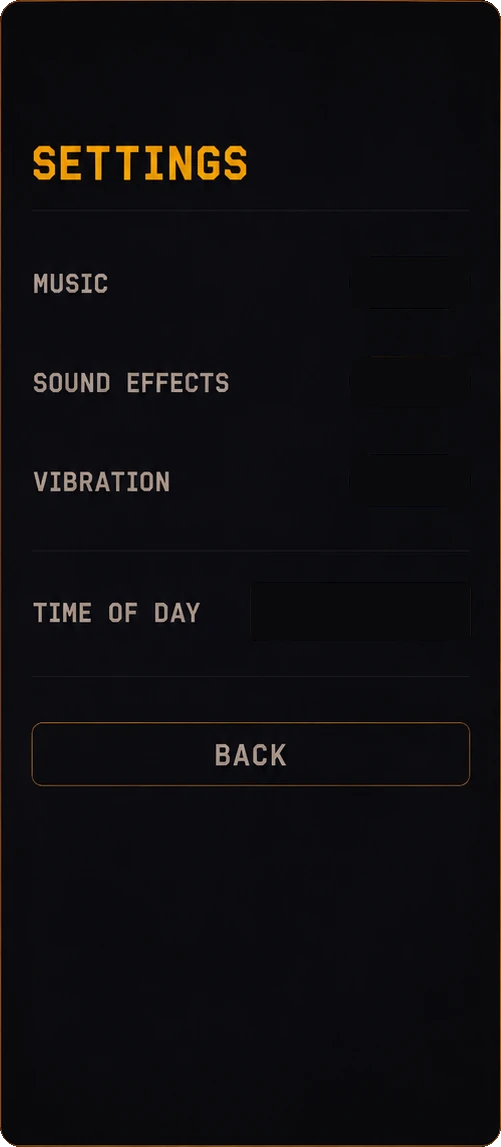
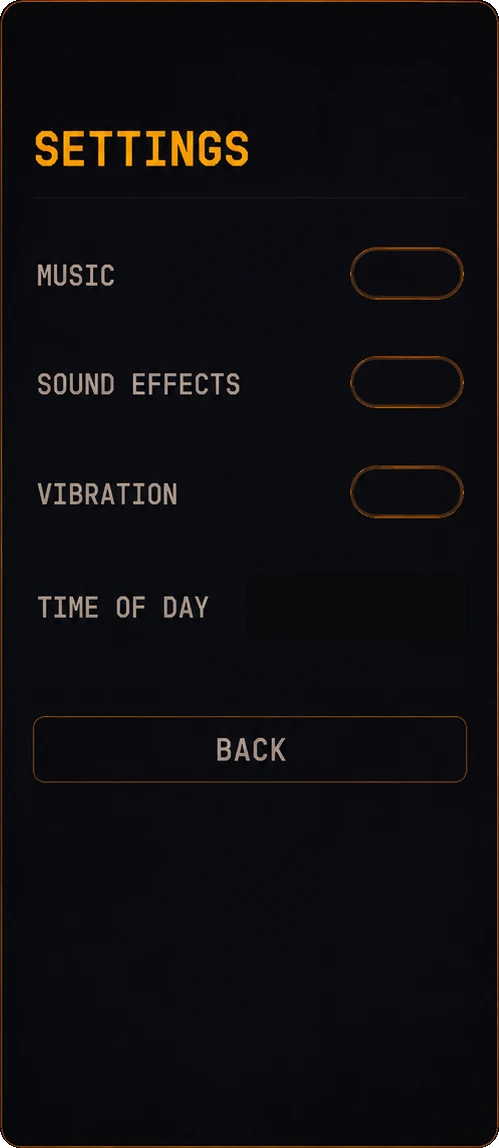
SETTINGS is his painting too, switches and all

diff --git a/src/ui/panel.js b/src/ui/panel.js
@@ -36,6 +36,16 @@ import leaderboardCard from '../assets/backgrounds/leaderboard-card.webp';
 // the Pages subpath.
 import cabinetPlate from '../assets/ui/cabinet.webp';
 import panelOptionsPlate from '../assets/ui/panel-options.webp';
+import panelSettingsPlate from '../assets/ui/panel-settings.webp';
+import pillOn from '../assets/ui/pill-on.webp';
+import pillOff from '../assets/ui/pill-off.webp';
+import todAtl from '../assets/ui/tod-atl.webp';
+import todDay from '../assets/ui/tod-day.webp';
+import todNight from '../assets/ui/tod-night.webp';
+import todLocal from '../assets/ui/tod-local.webp';
+
+// His four TIME OF DAY boxes, keyed by the <select> value they belong to.
+const TOD_PLATE = { atl: todAtl, day: todDay, night: todNight, local: todLocal };
 // HOW TO PLAY, in real frames from the running game — see
 // tools/shoot_howto.mjs. Imported rather than written into index.html for the
 // same reason the card above is: the bundler content-hashes these, and a
@@ -130,6 +140,9 @@ export function createPanel({ onClose, onTimeOfDayChange, onSoundChange,
   if (panelCard) {
     panelCard.style.setProperty('--cabinet-plate', `url(${cabinetPlate})`);
     panelCard.style.setProperty('--panel-options', `url(${panelOptionsPlate})`);
+    panelCard.style.setProperty('--panel-settings', `url(${panelSettingsPlate})`);
+    panelCard.style.setProperty('--pill-on', `url(${pillOn})`);
+    panelCard.style.setProperty('--pill-off', `url(${pillOff})`);
   }
   const views = { menu: $('pvMenu'), board: $('pvBoard'), how: $('pvHow'),
     form: $('pvForm'), settings: $('pvSettings') };
@@ -172,9 +185,10 @@ export function createPanel({ onClose, onTimeOfDayChange, onSoundChange,
     // the plain panel too: a four-page swipe pager and a three-field form
     // inside a cabinet opening either scroll within a scroller or shrink the
     // pictures to nothing.
-    const inCabinet = view === 'menu';
+    const inCabinet = view === 'menu' || view === 'settings';
     $('panelCard').classList.toggle('cabinet', inCabinet);
     $('panelCard').classList.toggle('cabinet-menu', view === 'menu');
+    $('panelCard').classList.toggle('cabinet-settings', view === 'settings');
     // The cabinet is full-bleed, so the SCROLLER has to stop padding and
     // start clipping. On the element rather than the card, because it is the
     // container's own padding and overflow that leave the gap.
@@ -452,6 +466,18 @@ export function createPanel({ onClose, onTimeOfDayChange, onSoundChange,
         + 'right now. Night streets after 7pm Eastern, wherever you are.';
     }
     $('todNote').textContent = note;
+    paintTod(tod);
+  }
+
+  // Swap the <select>'s background to HIS box for the chosen value. Set on
+  // the card rather than the select so it lives with the other plate vars,
+  // and so a value with no artwork simply shows nothing rather than the
+  // previous value's words.
+  function paintTod(v) {
+    const card = $('panelCard');
+    if (!card) return;
+    const url = TOD_PLATE[v];
+    card.style.setProperty('--tod-value', url ? `url(${url})` : 'none');
   }
 
   // ── wiring ────────────────────────────────────────────────────────────
@@ -561,6 +587,9 @@ export function createPanel({ onClose, onTimeOfDayChange, onSoundChange,
     if (e.target.checked) haptics?.tap();
   });
   $('sTod').addEventListener('change', (e) => {
+    // Repaint first, so the box reads as the new value while the plates for
+    // the other half of the day are still decoding.
+    paintTod(e.target.value);
     try { localStorage.setItem('wh_tod', e.target.value); } catch (_e) {}
     // The handler returns FALSE only mid-run, where switching the world under
     // a live run would be worse than waiting. Otherwise it returns a promise

diff --git a/index.html b/index.html
@@ -428,6 +428,68 @@
       background-image: var(--panel-options);
       aspect-ratio: 546 / 1002;
     }
+    #panelCard.cabinet-settings #panelScreen {
+      background-image: var(--panel-settings);
+      aspect-ratio: 499 / 1148;
+    }
+    /* ── SETTINGS: HIS PIECES IN HIS SOCKETS ───────────────────────────
+       Every rect is a fraction of panel-settings, printed by
+       tools/cut_cabinet.py off his own empty render. The three switches keep
+       the outlines HE drew in that render — the ON/OFF sprites are resized to
+       exactly the socket, so his outline and the sprite's coincide. The TIME
+       OF DAY socket is blanked in the plate instead, because his value boxes
+       are drawn at aspect 5.3 against a socket of 3.5 and stretching them to
+       fit would halve the lettering; the border you see there is the one he
+       drew on the box. */
+    #panelCard.cabinet #pvSettings:not([hidden]) { display: contents; }
+    #panelCard.cabinet #pvSettings .note,
+    #panelCard.cabinet #pvSettings label.row > span { display: none; }
+    /* ⚠ THE SWITCHES ARE STILL REAL CHECKBOXES. Only their paint changes —
+       hiding the input and drawing on the label would cost the tap target,
+       the focus ring and the screen-reader role, and this is a control a
+       player has to be able to find with a thumb in a dark room. */
+    #panelCard.cabinet #pvSettings label.row {
+      position: absolute; margin: 0; display: block;
+    }
+    #panelCard.cabinet #pvSettings label.row input[type=checkbox] {
+      appearance: none; -webkit-appearance: none;
+      display: block; width: 100%; height: 100%; margin: 0;
+      background: var(--pill-off) center / 100% 100% no-repeat;
+      border: 0; cursor: pointer;
+      -webkit-tap-highlight-color: transparent;
+    }
+    #panelCard.cabinet #pvSettings label.row input[type=checkbox]:checked {
+      background-image: var(--pill-on);
+    }
+    #panelCard.cabinet #pvSettings label.row input[type=checkbox]:disabled {
+      opacity: 0.4; cursor: default;
+    }
+    #panelCard.cabinet #pvSettings label.row:has(#sSound) {
+      left: 70.14%; top: 21.52%; width: 22.85%; height: 4.62%;
+    }
+    #panelCard.cabinet #pvSettings label.row:has(#sSfx) {
+      left: 70.14%; top: 31.01%; width: 22.85%; height: 4.62%;
+    }
+    #panelCard.cabinet #pvSettings label.row:has(#sHaptics) {
+      left: 70.14%; top: 40.51%; width: 22.85%; height: 4.70%;
+    }
+    /* The select sits over the blanked socket, showing his value box as its
+       own background. `color: transparent` keeps the option text out of the
+       way — the words are in the picture — while the native <select> keeps
+       the OS picker, the keyboard access and the accessible name. */
+    #panelCard.cabinet #pvSettings label.row:has(#sTod) {
+      left: 49.70%; top: 51.13%; width: 43.89%; height: 3.57%;
+    }
+    #panelCard.cabinet #sTod {
+      width: 100%; height: 100%; margin: 0; padding: 0;
+      background: var(--tod-value) center / 100% 100% no-repeat;
+      border: 0; border-radius: 0; color: transparent; font-size: 0;
+      appearance: none; -webkit-appearance: none;
+    }
+    #panelCard.cabinet #sTod option { color: #f2ead8; font-size: 15px; }
+    #panelCard.cabinet #btnBack {
+      left: 6.61%; top: 62.37%; width: 87.17%; height: 5.84%;
+    }
     /* The heading is PAINTED into the plate, so the DOM one would be a second
        copy of the same word sitting on top of his. */
     #panelCard.cabinet #panelTitle { display: none; }

diff --git a/tools/cut_cabinet.py b/tools/cut_cabinet.py
@@ -66,7 +66,9 @@ Usage:
 """
 import os
 
+import numpy as np
 from PIL import Image, ImageDraw
+from scipy import ndimage
 
 REPO_ROOT = os.path.dirname(os.path.dirname(os.path.abspath(__file__)))
 SRC = os.path.join(REPO_ROOT, 'assets', 'ui-concept')
@@ -97,12 +99,92 @@ RADIUS = 20
 # Image coordinates in settings.png. Blanked out of the settings plate and
 # filled at runtime by the client's own pieces. Sizes here ARE the sizes he
 # was given to draw to, so changing one means re-briefing him.
+# ⚠ MEASURED ON settings-empty.png, WHICH IS ITS OWN PAINTING.
+# The client redrew the panel when he emptied it, so these are NOT the rects
+# of the original settings.png — the pill went 120x51 -> 114x53 and every row
+# moved. Re-measure after any new render rather than trusting these.
+SETTINGS_PANEL = (143, 235, 641, 1382)      # 499 x 1148
 SOCKETS = [
-    ('sound', 493, 493, 612, 543),      # MUSIC          120 x 51
-    ('sfx', 493, 593, 612, 642),        # SOUND EFFECTS  120 x 50
-    ('haptics', 493, 691, 612, 741),    # VIBRATION      120 x 51
-    ('tod', 394, 819, 612, 875),        # TIME OF DAY    219 x 57
+    ('sound', 493, 482, 606, 534),      # MUSIC          114 x 53
+    ('sfx', 493, 591, 606, 643),        # SOUND EFFECTS  114 x 53
+    ('haptics', 493, 700, 606, 753),    # VIBRATION      114 x 54
+    ('tod', 391, 810, 609, 872),        # TIME OF DAY    219 x 63
 ]
+PILL_SIZE = (114, 53)
+
+# ── WHERE EACH STATE PIECE IS CUT FROM ───────────────────────────────────
+# ⚠ EVERY ONE OF THESE IS A SEPARATE ChatGPT RENDER AT ITS OWN SCALE, and
+# they do not register with each other. The all-off panel is 878x1791 with a
+# 509x1155 panel and a 144x55 pill; the empty panel is 852x1846 with a 499x1148
+# panel and a 114x53 socket; the value boxes are drawn 537x101 against a socket
+# of 219x63. Asking for registered variants of one painting is not something
+# the generator can do, so each piece is CROPPED from his art and RESIZED to
+# the socket. Resizing his pixels is not drawing over them.
+# ── RECONCILING THE SCALES ───────────────────────────────────────────────
+# ⚠ NO TWO OF HIS RENDERS SHARE A SCALE, so nothing can be cut from one and
+# dropped into another as-is. Measured:
+#
+#   settings-empty.png     852x1846 canvas, panel 499x1148, pill socket 114x53
+#   settings.png (all on)  852x1846 canvas, panel 501x1147, pill        122x55
+#   settings-all-off.png   878x1791 canvas, panel 509x1155, pill        144x55
+#
+# The all-off panel is not even a uniform scale of the empty one — 499/509 =
+# 0.980 across but 1148/1155 = 0.994 down. Cutting a pill from each and
+# resizing it to the socket by hand (the first pass here) happens to work for
+# a pill, and quietly stops working the moment a piece is not a lozenge.
+#
+# So every source is ALIGNED first: its panel is located, and the whole image
+# is resampled so that panel lands exactly on the reference panel below. After
+# that, one set of coordinates — the reference socket rects — cuts correctly
+# from any of them, and a new render only needs its panel found.
+REFERENCE = 'settings-empty.png'
+# Piece -> (source file, rect in REFERENCE coordinates). The rects ARE the
+# sockets, so an aligned cut needs no resizing at all.
+SRC_PILL_ON = ('settings.png', 'sound')
+SRC_PILL_OFF = ('settings-all-off.png', 'sound')
+# The four values, top to bottom in his sheet, in the order the <select> lists
+# them. All 537x101.
+SRC_TOD = ('settings-tod-values.png', 239, 775, [
+    ('atl', 315, 415), ('day', 580, 680), ('night', 841, 942),
+    ('local', 1104, 1204),
+])
+
+
+def find_panel(im):
+    """Locate the amber-bordered panel in one of his cabinet renders.
+
+    Warm-over-dark rather than luminance: the housing is dark metal and the
+    screen is dark glass, so a brightness threshold returns the whole cabinet.
+    The panel is the largest warm-bordered region on the plate.
+    """
+    a = np.asarray(im.convert('RGB')).astype(int)
+    warm = ((a[..., 0] - a[..., 2]) > 18) & (a[..., 0] > 55)
+    filled = ndimage.binary_fill_holes(
+        ndimage.binary_closing(warm, np.ones((9, 9))))
+    lab, n = ndimage.label(filled)
+    if not n:
+        raise SystemExit('no panel found')
+    sizes = ndimage.sum(filled, lab, range(1, n + 1))
+    sl = ndimage.find_objects(lab)[int(np.argmax(sizes))]
+    return (sl[1].start, sl[0].start, sl[1].stop - 1, sl[0].stop - 1)
+
+
+def align(im, ref_panel, ref_size):
+    """Resample `im` so its panel lands exactly on `ref_panel`.
+
+    Returns a canvas of `ref_size` in which reference coordinates are valid,
+    so one set of socket rects cuts correctly from every render.
+    """
+    px0, py0, px1, py1 = find_panel(im)
+    rx0, ry0, rx1, ry1 = ref_panel
+    sx = (rx1 - rx0 + 1) / (px1 - px0 + 1)
+    sy = (ry1 - ry0 + 1) / (py1 - py0 + 1)
+    out = im.convert('RGBA').resize(
+        (max(1, round(im.width * sx)), max(1, round(im.height * sy))),
+        Image.LANCZOS)
+    canvas = Image.new('RGBA', ref_size, (0, 0, 0, 0))
+    canvas.paste(out, (round(rx0 - px0 * sx), round(ry0 - py0 * sy)))
+    return canvas, (sx, sy)
 
 
 def rounded_alpha(size, radius):
@@ -131,24 +213,91 @@ def main():
     ImageDraw.Draw(house).rectangle([hx0, hy0, hx1, hy1], fill=GLASS)
     report.append(save(house, 'cabinet.webp') + (f'{house.width}x{house.height}',))
 
-    # ── 2. each painted panel, cropped to its own rect ────────────────────
-    for which in ('options', 'settings'):
-        src = Image.open(os.path.join(SRC, f'{which}.png')).convert('RGBA')
-        x0, y0, x1, y1 = PANEL[which]
-        plate = src.crop((x0, y0, x1 + 1, y1 + 1))
+    # ── 2. the OPTIONS panel, cropped whole. It has no state, so every
+    #       pixel of it ships exactly as he painted it. ────────────────────
+    ox0, oy0, ox1, oy1 = PANEL['options']
+    op = Image.open(os.path.join(SRC, 'options.png')).convert('RGBA')
+    op = op.crop((ox0, oy0, ox1 + 1, oy1 + 1))
+    op.putalpha(rounded_alpha(op.size, RADIUS))
+    report.append(save(op, 'panel-options.webp') + (f'{op.width}x{op.height}',))
 
-        if which == 'settings':
-            d = ImageDraw.Draw(plate)
-            for _name, sx0, sy0, sx1, sy1 in SOCKETS:
-                d.rectangle([sx0 - x0, sy0 - y0, sx1 - x0, sy1 - y0],
-                            fill=PANEL_FILL + (255,))
+    # ── 3. the SETTINGS panel, from his EMPTY render ──────────────────────
+    # The three pill sockets keep the empty outlines he drew — the ON/OFF
+    # sprites are resized to exactly those rects, so his outline and theirs
+    # coincide. The TIME OF DAY socket is blanked instead: his value boxes are
+    # 537x101 (aspect 5.3) against a 219x63 socket (aspect 3.5), so they cannot
+    # both be shown. Scaling a box to fill the socket would squash the
+    # lettering by half, so the box goes in at its own aspect and HIS border on
+    # it is the one that shows.
+    sx0, sy0, sx1, sy1 = SETTINGS_PANEL
+    sp = Image.open(os.path.join(SRC, 'settings-empty.png')).convert('RGBA')
+    sp = sp.crop((sx0, sy0, sx1 + 1, sy1 + 1))
+    d = ImageDraw.Draw(sp)
+    for name, ax0, ay0, ax1, ay1 in SOCKETS:
+        if name == 'tod':
+            d.rectangle([ax0 - sx0, ay0 - sy0, ax1 - sx0, ay1 - sy0],
+                        fill=PANEL_FILL + (255,))
+    sp.putalpha(rounded_alpha(sp.size, RADIUS))
+    report.append(save(sp, 'panel-settings.webp') + (f'{sp.width}x{sp.height}',))
 
-        plate.putalpha(rounded_alpha(plate.size, RADIUS))
-        report.append(save(plate, f'panel-{which}.webp')
-                      + (f'{plate.width}x{plate.height}',))
+    # ── 4. the state pieces, cut from ALIGNED sources ─────────────────────
+    ref = Image.open(os.path.join(SRC, REFERENCE))
+    ref_size = ref.size
+    socket = {n: (a, b, c, d) for n, a, b, c, d in SOCKETS}
+    for out_name, (fn, sock) in (('pill-on', SRC_PILL_ON),
+                                 ('pill-off', SRC_PILL_OFF)):
+        raw = Image.open(os.path.join(SRC, fn))
+        fitted, (sx, sy) = align(raw, SETTINGS_PANEL, ref_size)
+        cx0, cy0, cx1, cy1 = socket[sock]
+        # ⚠ ALIGNING THE PANEL IS NOT ENOUGH. He drew the pill at a different
+        # size RELATIVE to the panel in each render — after alignment the
+        # all-off pill is still 141 wide against a 114 socket — so cutting at
+        # the socket rect slices his knob off. Find the pill's own bounds in a
+        # window around the socket, then fit those to the socket. Measured
+        # before this: the OFF knob was clipped flat on its left edge.
+        pw, ph = cx1 - cx0 + 1, cy1 - cy0 + 1
+        mx, my = pw // 2, ph // 2
+        win = fitted.crop((cx0 - mx, cy0 - my, cx1 + mx + 1, cy1 + my + 1))
+        wa = np.asarray(win.convert('RGB')).astype(int)
+        lum = 0.299 * wa[..., 0] + 0.587 * wa[..., 1] + 0.114 * wa[..., 2]
+        ink = (lum > np.percentile(lum, 5) + 12) & (np.asarray(win)[..., 3] > 0)
+        # The bbox of ALL ink in the window is wrong — the window is wide
+        # enough to touch the row above and below, and that measured the pill
+        # at 175x105 inside a 228x106 window. Take the one connected shape
+        # that covers the socket's centre instead.
+        # Close hard enough to join the pill's outline, its knob and its
+        # lettering into ONE shape — they are separate blobs otherwise, and
+        # the socket's own centre lands in the gap between knob and word, so
+        # "the shape under the middle" finds nothing at all.
+        ink = ndimage.binary_closing(ink, np.ones((13, 13)))
+        lab_p, n_p = ndimage.label(ink)
+        if not n_p:
+            raise SystemExit(f'{out_name}: nothing found near the socket')
+        inside = np.zeros_like(ink)
+        inside[my:my + ph, mx:mx + pw] = True
+        overlap = ndimage.sum(inside, lab_p, range(1, n_p + 1))
+        here = int(np.argmax(overlap)) + 1
+        ys, xs = np.nonzero(lab_p == here)
+        piece = win.crop((xs.min(), ys.min(), xs.max() + 1, ys.max() + 1))
+        grew = (piece.width, piece.height)
+        piece = piece.resize((pw, ph), Image.LANCZOS)
+        report.append(save(piece, f'{out_name}.webp')
+                      + (f'{piece.width}x{piece.height}  aligned '
+                         f'{sx:.3f}/{sy:.3f}, pill {grew[0]}x{grew[1]}',))
+
+    fn, tx0, tx1, rows = SRC_TOD
+    tod_src = Image.open(os.path.join(SRC, fn)).convert('RGBA')
+    _n, _sx0, _sy0, _sx1, _sy1 = [s for s in SOCKETS if s[0] == 'tod'][0]
+    tod_w = _sx1 - _sx0 + 1
+    for key, ty0, ty1 in rows:
+        box = tod_src.crop((tx0, ty0, tx1 + 1, ty1 + 1))
+        h = round(box.height * tod_w / box.width)
+        box = box.resize((tod_w, h), Image.LANCZOS)
+        report.append(save(box, f'tod-{key}.webp')
+                      + (f'{box.width}x{box.height}  width-fit',))
 
     for path, kb, dims in report:
-        print(f'{os.path.basename(path):24s} {dims:>10s}  {kb:6.1f} KB')
+        print(f'{os.path.basename(path):24s} {dims:<30s} {kb:6.1f} KB')
 
     # ── the numbers index.html needs ──────────────────────────────────────
     W, H = house.width, house.height
